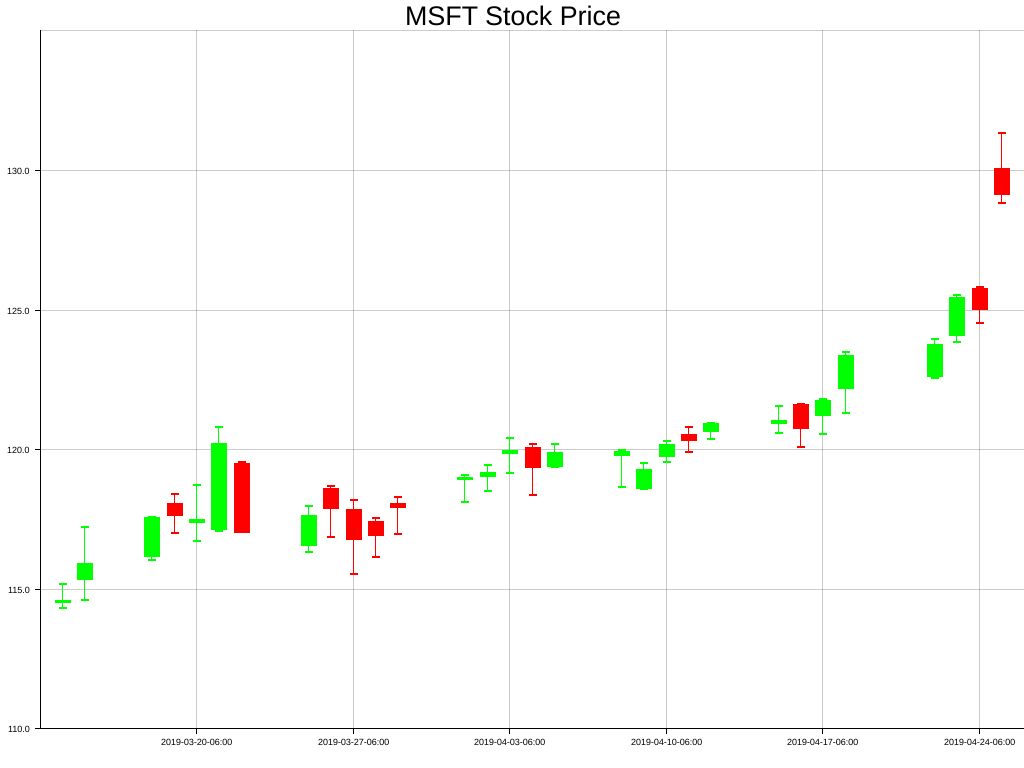
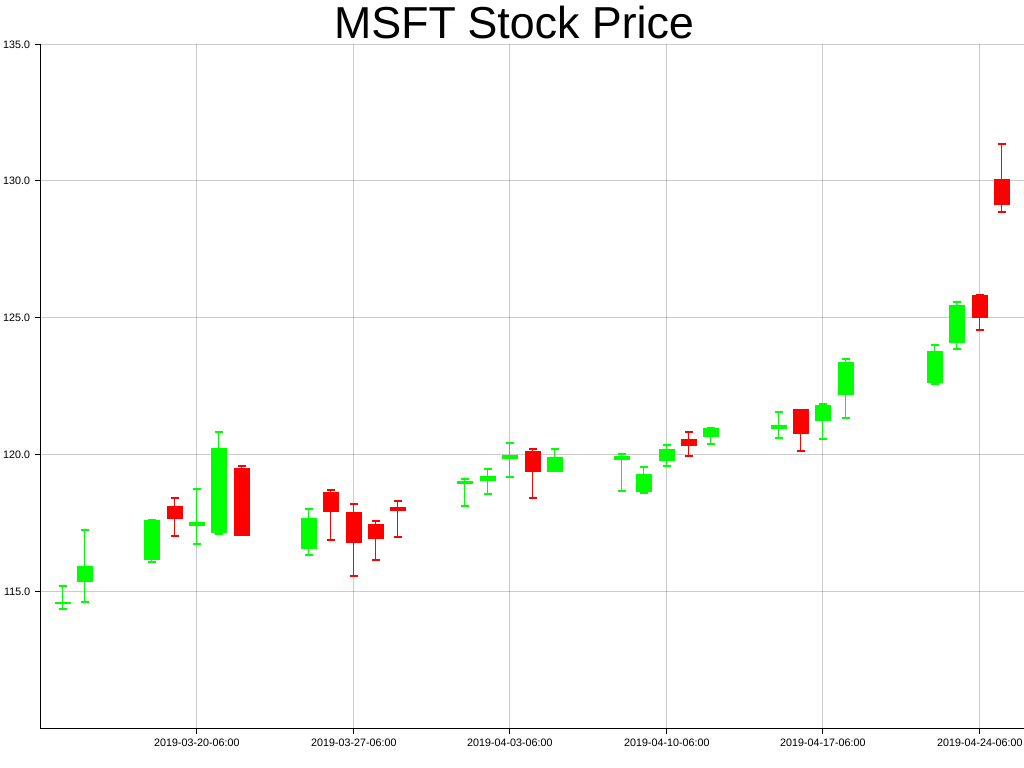
Fix bug of the font layout

diff --git a/src/style/font.rs b/src/style/font.rs
@@ -108,7 +108,7 @@ impl<'a> FontDesc<'a> {
     }
 
     /// Get the size of the text if rendered in this font
-    pub fn box_size(&self, text: &str) -> FontResult<(u32, u32)> {
+    fn layout_box(&self, text: &str) -> FontResult<((i32, i32), (i32, i32))> {
         let scale = Scale::uniform(self.size as f32);
 
         if self.font.borrow().is_none() {
@@ -131,12 +131,18 @@ impl<'a> FontDesc<'a> {
                 });
 
             if min_x == i32::MAX || min_y == i32::MAX {
-                return Ok((0, 0));
+                return Ok(((0, 0), (0, 0)));
             }
 
-            return Ok(((max_x - min_x) as u32, (0 - min_y) as u32));
+            return Ok(((min_x, min_y), (max_x, max_y)));
         }
         unreachable!();
+    }
+    
+    /// Get the size of the text if rendered in this font
+    pub fn box_size(&self, text: &str) -> FontResult<(u32, u32)> {
+        let ((min_x, min_y), (max_x, max_y)) = self.layout_box(text)?;
+        return Ok(((max_x - min_x) as u32, (max_y - min_y) as u32));
     }
 
     /// Actually draws a font with a drawing function
@@ -146,7 +152,7 @@ impl<'a> FontDesc<'a> {
         (x, y): (i32, i32),
         mut draw: DrawFunc,
     ) -> FontResult<Result<(), E>> {
-        let (_, h) = self.box_size(text)?;
+        let ((_,b),(_,_)) = self.layout_box(text)?;
 
         let scale = Scale::uniform(self.size as f32);
         if self.font.borrow().is_none() {
@@ -156,7 +162,7 @@ impl<'a> FontDesc<'a> {
 
         if let Some(ref font) = *self.font.borrow() {
             let mut result = Ok(());
-            for g in font.layout(text, scale, point(x as f32, y as f32 + h as f32)) {
+            for g in font.layout(text, scale, point(x as f32, y as f32 - b as f32)) {
                 if let Some(rect) = g.pixel_bounding_box() {
                     let x0 = rect.min.x;
                     let y0 = rect.min.y;

diff --git a/src/lib.rs b/src/lib.rs
@@ -77,7 +77,7 @@ fn main() -> Result<(), Box<dyn std::error::Error>> {
     let mut backend = BitMapBackend::new("examples/outputs/0.png", (640, 480));
     backend.open()?;
     let root: DrawingArea<_, _> = backend.into();
-    let font = Into::<FontDesc>::into("Arial").resize(20.0);
+    let font = Into::<FontDesc>::into("Arial").resize(50.0);
     root.fill(&RGBColor(255, 255, 255))?;
     let mut chart = ChartBuilder::on(&root)
         .caption("y=x^2", &font)
@@ -233,7 +233,7 @@ fn main() -> Result<(), Box<dyn std::error::Error>> {
         // Set the caption of the chart
         .caption("This is our first plot", &font)
         // Set the size of the label region
-        .set_x_label_size(40)
+        .set_x_label_size(20)
         .set_y_label_size(40)
         // Finally attach a coordinate on the drawing area and make a chart context
         .build_ranged::<RangedCoordf32, RangedCoordf32, _, _>(0f32..10f32, 0f32..10f32);

diff --git a/examples/histogram.rs b/examples/histogram.rs
@@ -3,11 +3,11 @@ fn main() -> Result<(), Box<dyn std::error::Error>> {
     let mut backend = BitMapBackend::new("examples/outputs/histogram.png", (640, 480));
     backend.open()?;
     let root: DrawingArea<_, _> = backend.into();
-    let font = Into::<FontDesc>::into("Arial").resize(20.0);
+    let font = Into::<FontDesc>::into("Arial").resize(50.0);
     root.fill(&RGBColor(255, 255, 255))?;
 
     let mut chart = ChartBuilder::on(&root)
-        .set_x_label_size(40)
+        .set_x_label_size(25)
         .set_y_label_size(40)
         .caption("Histogram Test", &font)
         .build_ranged::<RangedCoordu32, RangedCoordu32, _, _>(0..10, 0..10);

diff --git a/examples/chart.rs b/examples/chart.rs
@@ -83,7 +83,7 @@ fn main() -> Result<(), Box<dyn std::error::Error>> {
             .set_y_label_size(60)
             .caption(format!("y = x^{}", 1 + 2 * idx), &font_small)
             .build_ranged::<RangedCoordf32, RangedCoordf32, _, _>(-1f32..1f32, -1f32..1f32);
-        cc.configure_mesh().x_labels(5).y_labels(5).draw()?;
+        cc.configure_mesh().x_labels(5).y_labels(3).draw()?;
 
         cc.draw_series(LineSeries::new(
             (-100..100).map(|x| {

diff --git a/examples/stock.rs b/examples/stock.rs
@@ -12,7 +12,7 @@ fn main() -> Result<(), Box<dyn std::error::Error>> {
     let mut backend = BitMapBackend::new("examples/outputs/stock.png", (1024, 768));
     backend.open()?;
     let root: DrawingArea<_, _> = backend.into();
-    let font = Into::<FontDesc>::into("Arial").resize(30.0);
+    let font = Into::<FontDesc>::into("Arial").resize(50.0);
     root.fill(&RGBColor(255, 255, 255))?;
 
     let (to_date, from_date) = (

diff --git a/src/coord/numeric.rs b/src/coord/numeric.rs
@@ -30,7 +30,7 @@ macro_rules! make_numeric_coord {
                     return limit.1;
                 }
 
-                return limit.0 + (actual_length as f64 * logic_length) as i32;
+                return limit.0 + (actual_length as f64 * logic_length + 1e-3).floor() as i32;
             }
             fn key_points(&self, max_points: usize) -> Vec<$type> {
                 $key_points((self.0, self.1), max_points)

diff --git a/src/chart.rs b/src/chart.rs
@@ -249,7 +249,7 @@ where
         std::mem::swap(&mut target, &mut self.target);
         let target = target.unwrap();
 
-        let default_font = FontDesc::new("Arial", 10.0);
+        let default_font = FontDesc::new("Arial", 12.0);
         let default_color = RGBColor(0, 0, 0);
         let default_label_style = TextStyle {
             font: &default_font,
